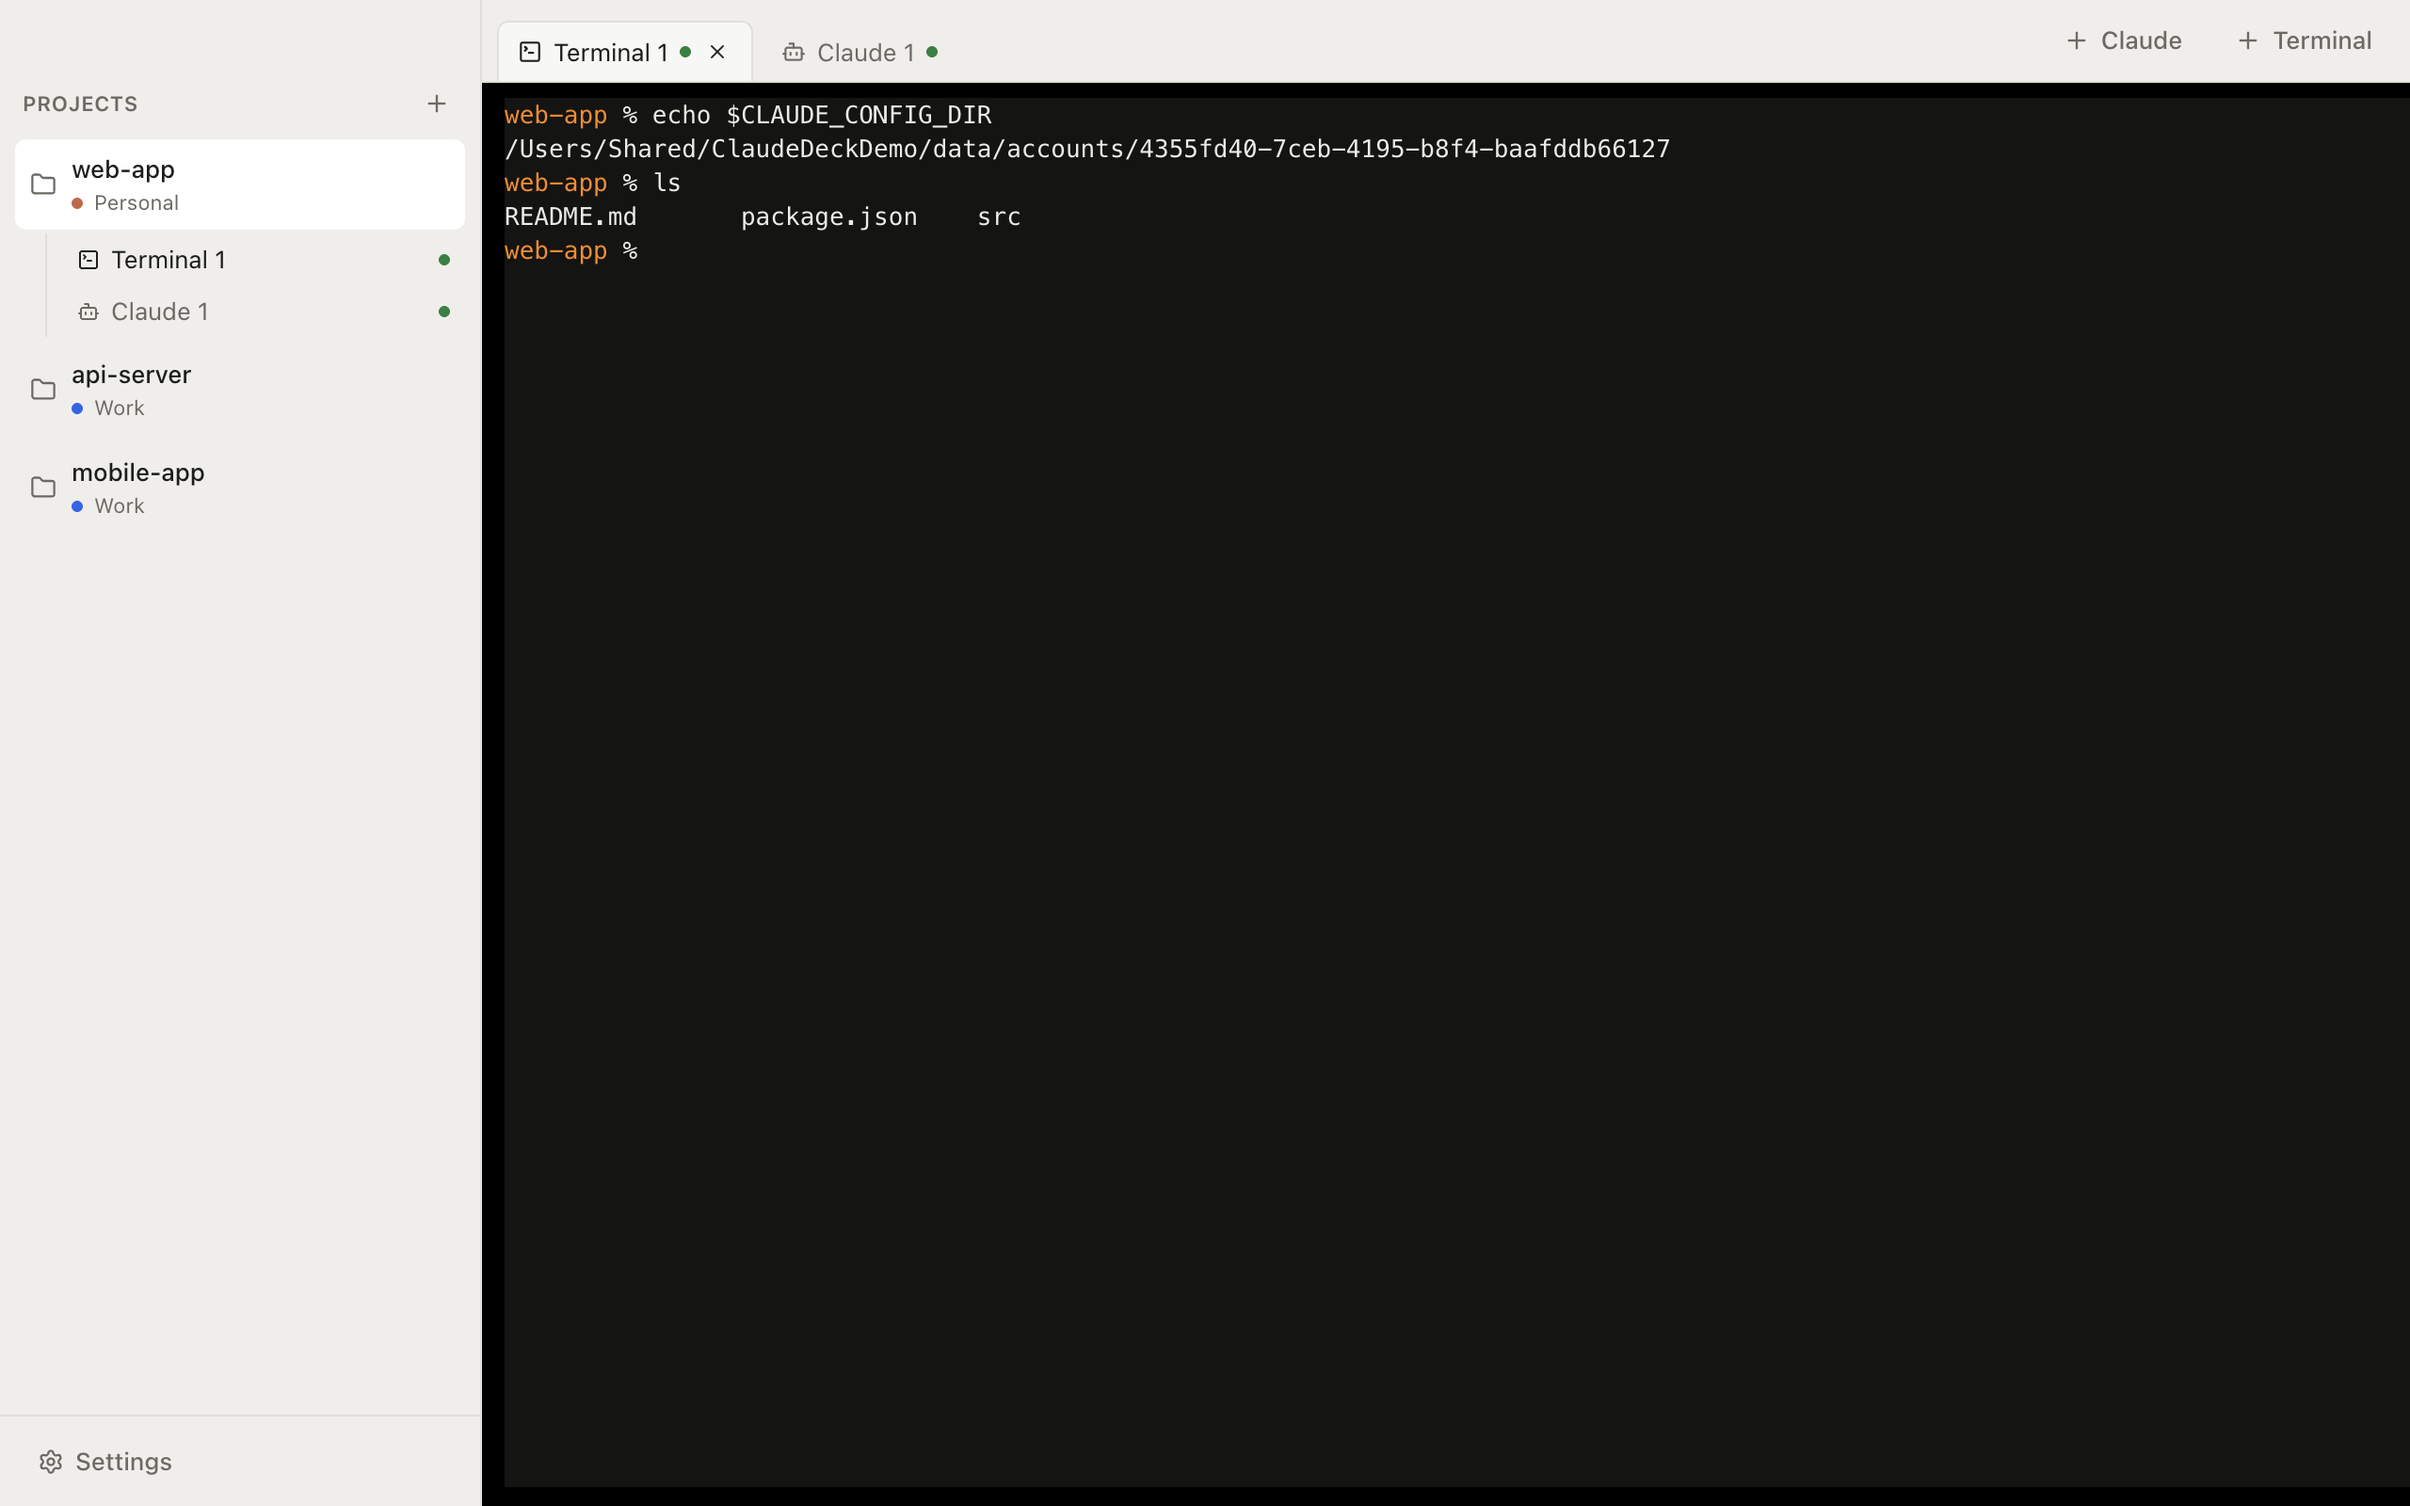
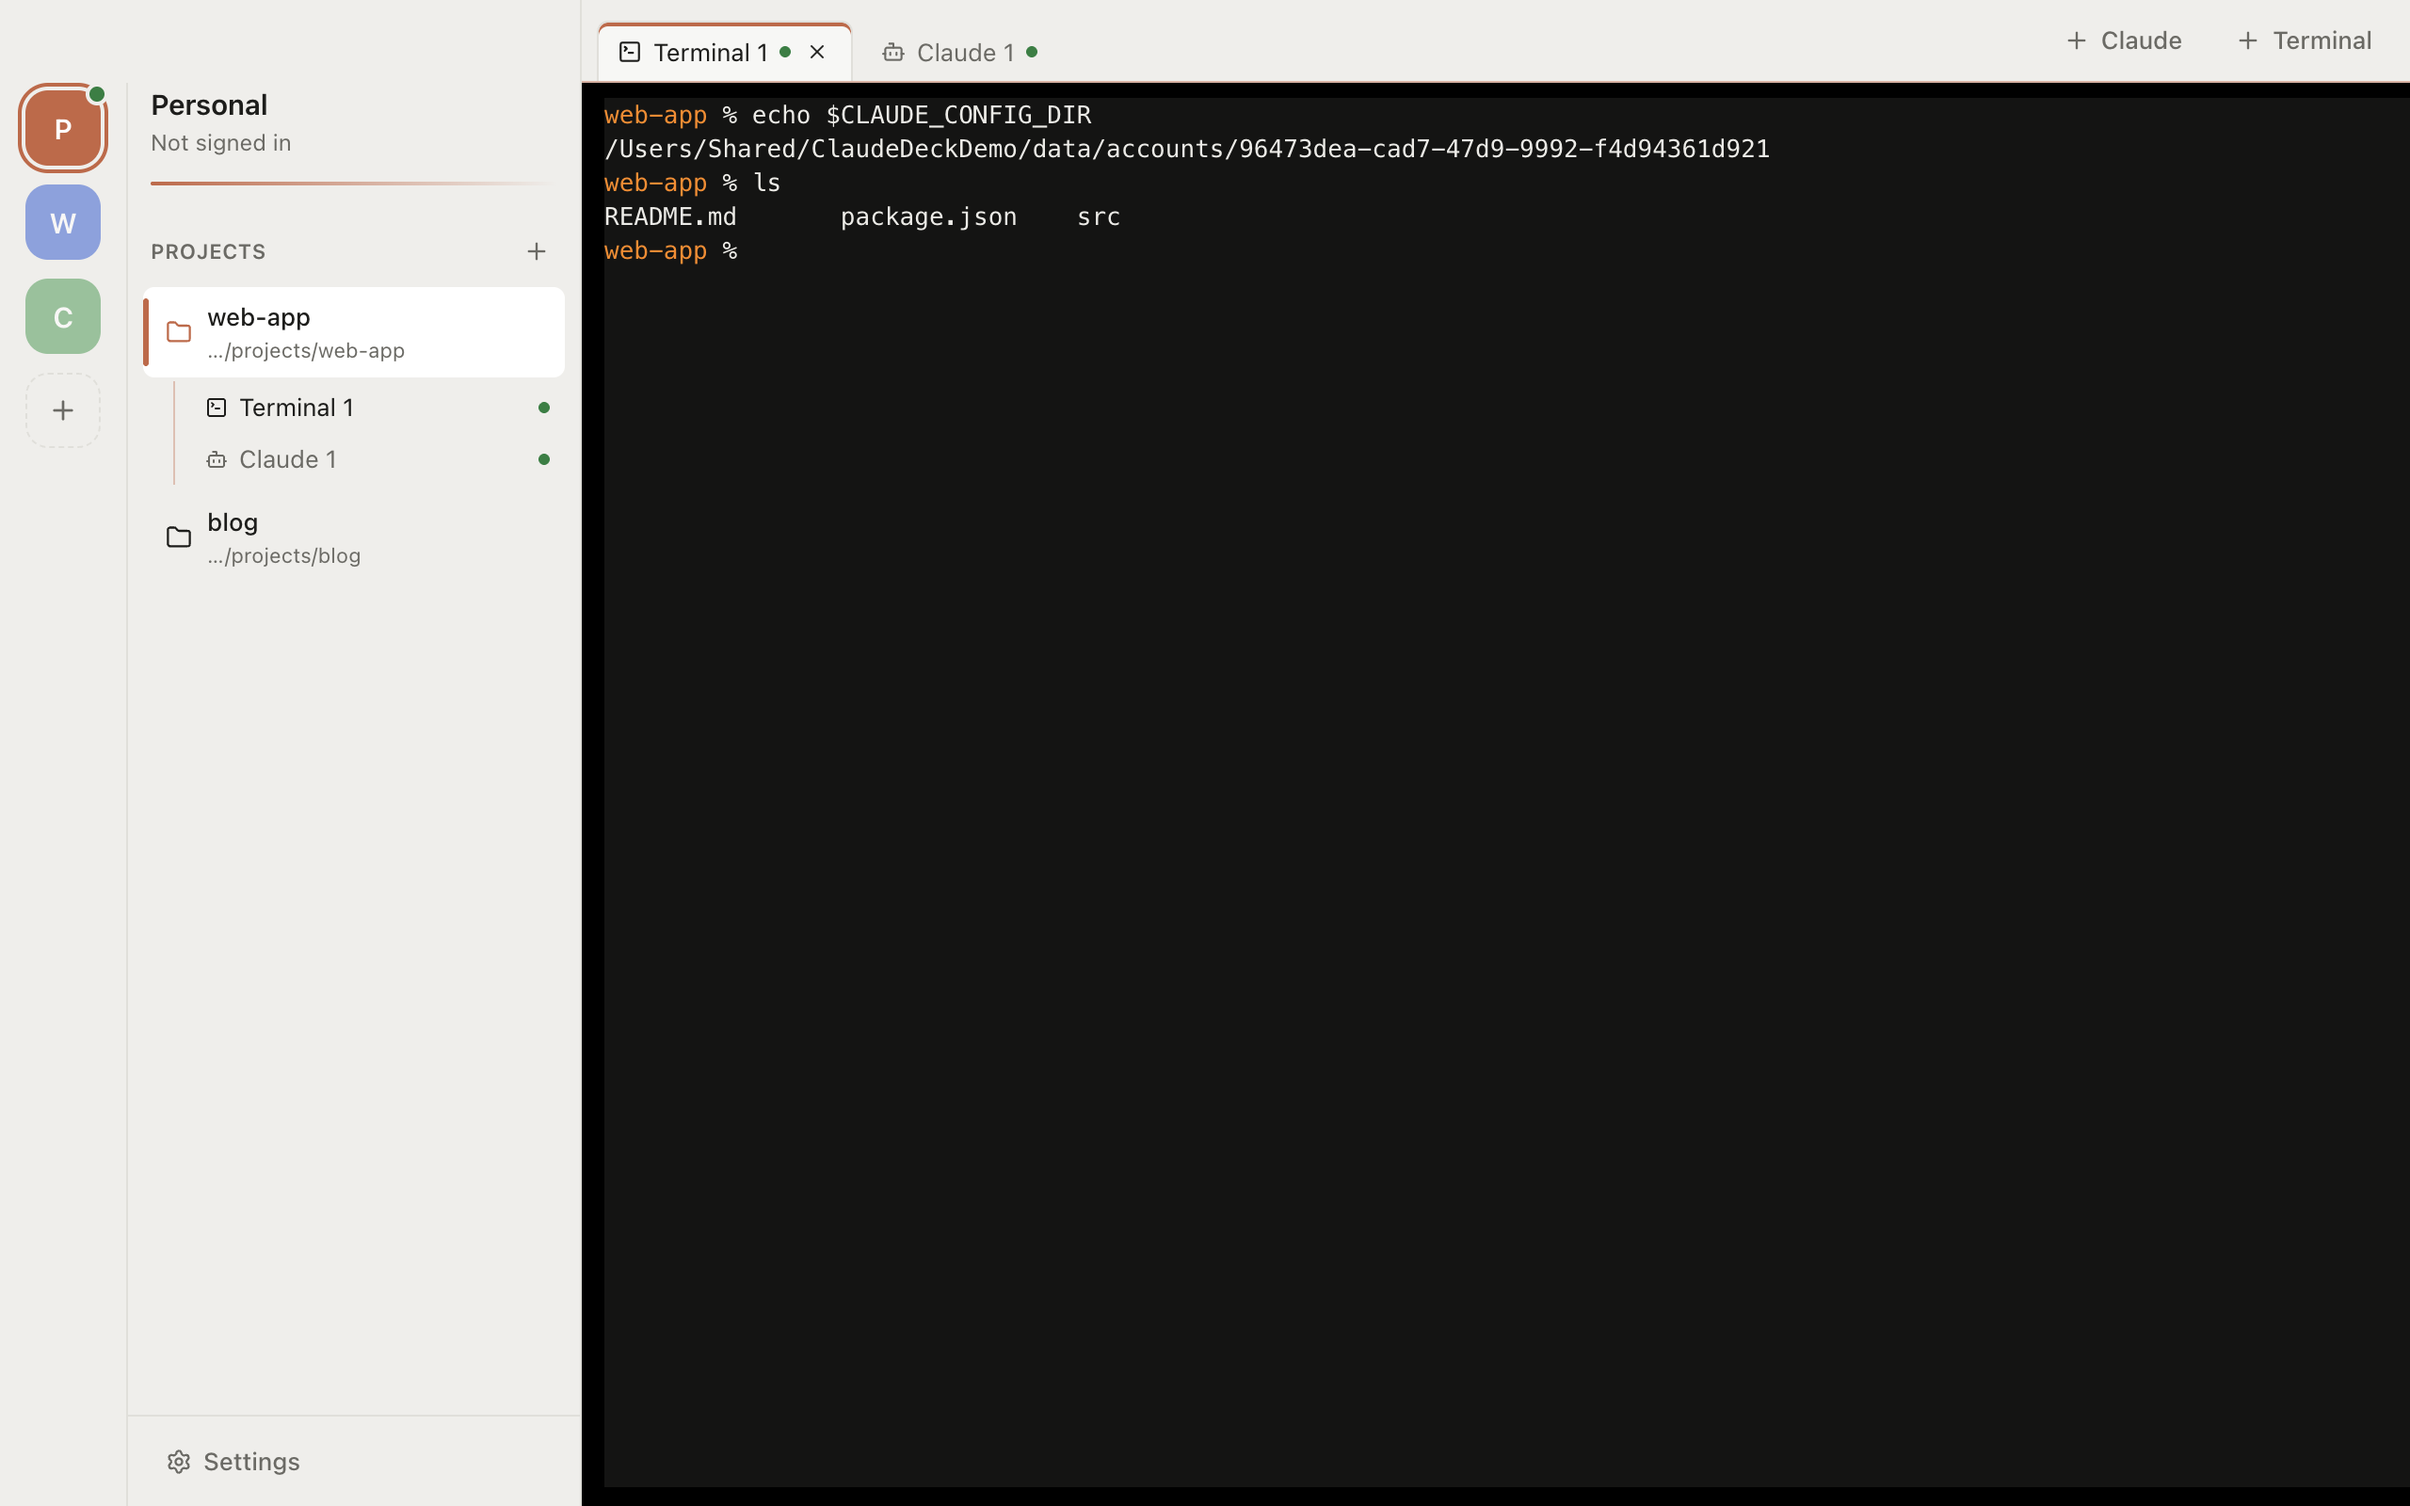
Release 0.2.0
Bump version, refresh README screenshots for the account rail and list the new features.

diff --git a/README.md b/README.md
@@ -21,10 +21,12 @@ If you keep separate Claude accounts for personal and work use, switching betwee
 ## Features
 
 - **Multiple accounts:** each account uses its own isolated Claude Code config directory. Accounts never mix, and your existing `~/.claude` setup is left untouched.
+- **Account rail:** switch accounts from colour-coded badges on the left; each account shows only its own projects and remembers the last project and tab you used.
 - **Per-project account:** a project is a folder plus an account. Change the account and new tabs open with the new one.
 - **Tabs:** as many Claude and plain Terminal tabs per project as you like. Background tabs keep running.
 - **Resume per tab:** each Claude tab remembers its own conversation, so you can pick it up again after restarting the app.
 - **English and Turkish UI:** follows the system language by default, switchable in Settings.
+- **Guided sign-in:** an animated, step-by-step sign-in screen instead of a raw terminal.
 - **Update notifications:** the app tells you when a new release is out.
 
 | Account isolation | Settings |
